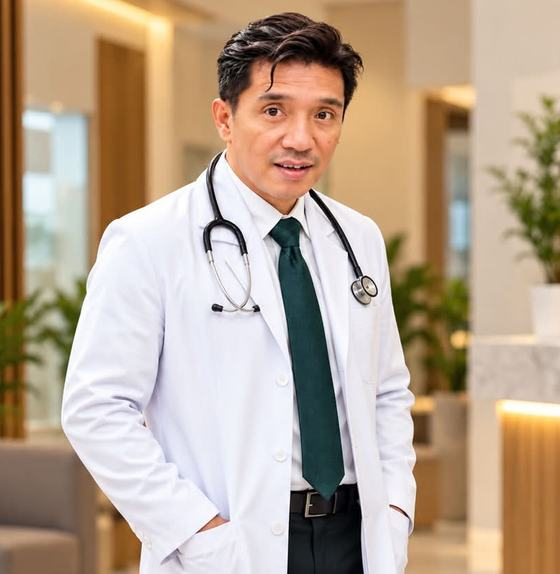
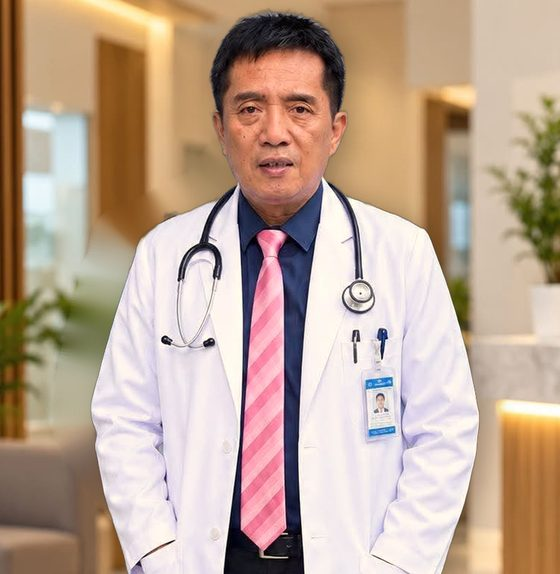
About section: new doctor photo composited on clinic lobby, full biography
Claude-Session: https://claude.ai/code/session_019wCgcXdnSCs1jDWCcynMET

diff --git a/index.html b/index.html
@@ -170,7 +170,7 @@ section{padding-block:88px}
 .about-photo img{display:block;width:100%;max-width:100%;aspect-ratio:560/574;object-fit:cover}
 .about-photo .hand{position:absolute;right:18px;top:22px;color:#fff;font-size:30px;transform:rotate(-6deg);text-shadow:0 2px 10px rgba(0,0,0,.4);text-align:right}
 .about-photo .stamp{position:absolute;left:16px;bottom:16px;background:var(--yellow);color:#1B2220;border-radius:12px;padding:10px 14px;font-size:12px;font-weight:600;line-height:1.3}
-.about-photo .stamp b{display:block;font-size:20px}
+.about-photo .stamp b{display:block;font-size:16px}
 .about-list{display:grid;gap:16px;margin-top:26px}
 .about-list li{display:flex;gap:14px;align-items:flex-start;list-style:none}
 .about-list ul{padding:0;margin:0}
@@ -178,8 +178,34 @@ section{padding-block:88px}
 .about-list small{color:var(--muted);font-size:13px}
 .about-text p+p{margin-top:12px}
 .about-text p{color:var(--muted);max-width:60ch}
-.about .btn{margin-top:28px;color:var(--red)}
+.about .btn-ghost{color:var(--red)}
 @media (max-width:900px){.about .wrap{grid-template-columns:1fr;gap:36px}.about-photo{max-width:480px}}
+
+
+.about .wrap{align-items:start}
+.about-photo{position:sticky;top:calc(96px + env(safe-area-inset-top,0px))}
+.about-text .name-sub{font-size:14px;color:var(--muted);margin-top:6px}
+.cred-chips{display:flex;flex-wrap:wrap;gap:8px;margin-top:18px}
+.cred-chips span{font-size:12px;font-weight:600;color:var(--head,var(--fg));background:var(--card);border:1px solid var(--line);border-radius:999px;padding:5px 12px}
+.about-text .bio p{margin-top:12px}
+.philo{margin:24px 0 0;padding:18px 22px;border-radius:14px;background:var(--card);border-left:4px solid var(--red);font-size:clamp(17px,1.8vw,20px);font-weight:600;line-height:1.45;color:var(--fg)}
+.philo small{display:block;font-size:12.5px;font-weight:500;color:var(--muted);margin-top:6px}
+.focus-grid{display:grid;grid-template-columns:1fr 1fr;gap:14px;margin-top:24px}
+.focus{display:flex;gap:12px;align-items:flex-start;background:var(--card);border:1px solid var(--line);border-radius:14px;padding:14px}
+.focus b{display:block;font-size:14px}
+.focus small{display:block;color:var(--muted);font-size:12.5px;line-height:1.5;margin-top:2px}
+.focus .ic{width:40px;height:40px;border-radius:10px}
+.focus .ic svg{width:20px;height:20px}
+details.bio-more{margin-top:20px;border-top:1px solid var(--line);border-bottom:1px solid var(--line)}
+details.bio-more summary{cursor:pointer;list-style:none;padding:14px 0;font-weight:600;color:var(--red);display:flex;justify-content:space-between;align-items:center}
+details.bio-more summary::-webkit-details-marker{display:none}
+details.bio-more summary::after{content:"+";font-size:22px;font-weight:400;line-height:1;transition:transform .2s}
+details.bio-more[open] summary::after{transform:rotate(45deg)}
+details.bio-more .bio{padding-bottom:16px}
+.about-btns{display:flex;flex-wrap:wrap;gap:12px;margin-top:26px}
+.about-btns .btn{margin-top:0}
+@media (max-width:900px){.about-photo{position:relative;top:0}}
+@media (max-width:540px){.focus-grid{grid-template-columns:1fr}}
 
 /* OFFER */
 .offer{padding-block:0 88px;background:var(--surface)}
@@ -584,21 +610,39 @@ footer a:hover{color:var(--band-fg)}
 <section class="about" id="about">
   <div class="wrap">
     <div class="about-photo">
-      <img src="images/dr-rullan-about.jpg" alt="Portrait of Dr. Dylan Thor R. Rullan" width="560" height="574" loading="lazy">
-      <div class="hand">Listens first,<br>prescribes second</div>
-      <div class="stamp"><b>MD + ND</b>Integrative approach</div>
+      <img src="images/dr-rullan-about.jpg" alt="Portrait of Dr. Dylan Thor Pablo R. Rullan in a white coat" width="560" height="574" loading="lazy">
+      <div class="hand">a.k.a.<br>Master Lance</div>
+      <div class="stamp"><b>PhD in Naturopathy</b>Doctor of Integrative Medicine</div>
     </div>
     <div class="about-text">
       <div class="eyebrow">About the Doctor</div>
-      <h2 class="h2">More Than a Prescription</h2>
-      <p style="margin-top:14px">Dr. Dylan Thor R. Rullan practises integrative and naturopathic medicine: evidence-based conventional care, combined with nutrition, botanical medicine and lifestyle therapy. The aim is simple. Find out why you feel unwell, then treat that.</p>
-      <p>Each consultation is a focused 30 minutes. Your history, your diet, your sleep and your stress all count as clinical information, and you leave with a written plan rather than a rushed note.</p>
-      <div class="about-list"><ul>
-        <li><span class="ic r"><svg><use href="#i-heart"/></svg></span><div><b>Root-Cause Assessment</b><small>Detailed history, physical exam and targeted labs</small></div></li>
-        <li><span class="ic g"><svg><use href="#i-leaf"/></svg></span><div><b>Natural &amp; Conventional Together</b><small>Botanicals and nutrition that respect your current medication</small></div></li>
-        <li><span class="ic y"><svg><use href="#i-shield"/></svg></span><div><b>Follow-Up You Can Reach</b><small>Scheduled reviews to adjust the plan as you improve</small></div></li>
-      </ul></div>
-      <a class="btn btn-ghost btn-sm" href="#process">How a visit works <svg><use href="#i-arrow"/></svg></a>
+      <h2 class="h2">Dr. Dylan Thor Pablo R. Rullan</h2>
+      <div class="cred-chips"><span>Doctor of Integrative Medicine</span><span>Doctor of Naturopathy</span><span>PhD in Naturopathy</span><span>Doctor of Humanities</span><span>Chiropractic Care Practitioner</span><span>Health Educator</span></div>
+      <div class="bio">
+        <p style="margin-top:18px">Dr. Dylan Thor Pablo R. Rullan is a Doctor of Integrative Medicine, Naturopathic Doctor in Advanced Diploma, Doctor of Humanities, and holder of a PhD in Naturopathy, dedicated to advancing integrative, preventive, and holistic approaches to health and wellness.</p>
+        <p>A cum laude graduate, Dr. Rullan has developed a multidisciplinary educational foundation that includes a Bachelor's Degree in Political Science, with academic units in Master's in Educational Management, complemented by specialized training and certifications in areas related to integrative health, including Iridology and Chiropractic Care.</p>
+        <p>With extensive hands-on experience in chiropractic care and integrative wellness, Dr. Rullan believes that effective health care should look at the individual as a whole: physical condition, nutrition, lifestyle, habits, environment, and overall well-being.</p>
+      </div>
+      <blockquote class="philo">“Doctors should not only treat, they should teach.”<small>Dr. Rullan's guiding philosophy</small></blockquote>
+      <div class="focus-grid">
+        <div class="focus"><span class="ic g"><svg><use href="#i-leaf"/></svg></span><div><b>Naturopathy &amp; Nutrition</b><small>Lifestyle wellness, food intake and preventive health</small></div></div>
+        <div class="focus"><span class="ic r"><svg><use href="#i-heart"/></svg></span><div><b>Chiropractic Care</b><small>Extensive hands-on experience in chiropractic and integrative wellness</small></div></div>
+        <div class="focus"><span class="ic y"><svg><use href="#i-user"/></svg></span><div><b>Eye Health Education</b><small>Non-invasive external eye-cleanse and diabetic retinopathy education programs</small></div></div>
+        <div class="focus"><span class="ic k"><svg><use href="#i-video"/></svg></span><div><b>Health Educator &amp; Speaker</b><small>Guest on radio programs and local TV, mentor and public speaker</small></div></div>
+      </div>
+      <details class="bio-more">
+        <summary>Read full biography</summary>
+        <div class="bio">
+          <p>He is particularly passionate about naturopathy, lifestyle wellness, nutrition and food intake, preventive health, chiropractic care, and health education. He has also developed a non-invasive eye-cleanse procedure focused on the external cleansing of the eyes and removal of accumulated dirt, dust, and other external debris, with the goal of supporting clearer visual comfort. His work also includes educational wellness programs addressing eye health and diabetic retinopathy; he emphasizes that such programs are complementary and should not replace appropriate ophthalmologic care.</p>
+          <p>Over the years, Dr. Rullan has received numerous testimonials from clients who attribute significant improvements in their health and quality of life to the care, guidance, and wellness programs they received. These stories have strengthened his commitment to helping people pursue healthier lifestyles while encouraging responsible, informed health decisions.</p>
+          <p>Beyond clinical and academic work, Dr. Rullan is known for his passion for teaching, mentoring, community education, and public speaking. He has appeared as a guest on various radio programs and local television channels, sharing his knowledge on health, wellness, lifestyle, and practical approaches to improving one's quality of life.</p>
+          <p>He is also known by many as “Master Lance,” a name associated with his knowledge and practice of Feng Shui and his interest in helping people create environments and lifestyles that promote harmony, balance, and positive living.</p>
+          <p>A lifelong learner and advocate of continuous personal development, Dr. Rullan believes that knowledge becomes more meaningful when it is shared.</p>
+          <p>Outside his professional work, Dr. Rullan enjoys dancing and traveling, reflecting his belief that a healthy life should also be an active, joyful, and meaningful one.</p>
+          <p>Today, through his continuing work in integrative medicine, naturopathy, wellness education, and community health advocacy, Dr. Dylan Thor Pablo R. Rullan remains committed to one purpose: empowering people with knowledge and practical tools to take a more active role in their health and well-being.</p>
+        </div>
+      </details>
+      <div class="about-btns"><a class="btn btn-red btn-sm" href="#book">Book a consultation <svg><use href="#i-arrow"/></svg></a><a class="btn btn-ghost btn-sm" href="#process">How a visit works <svg><use href="#i-arrow"/></svg></a></div>
     </div>
   </div>
 </section>
